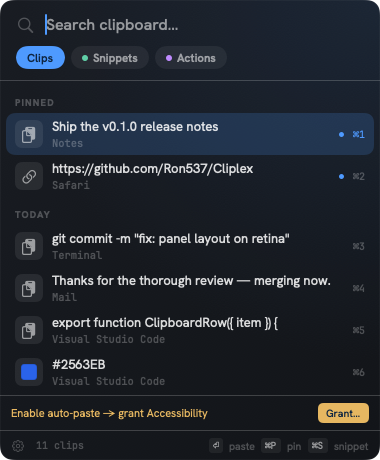
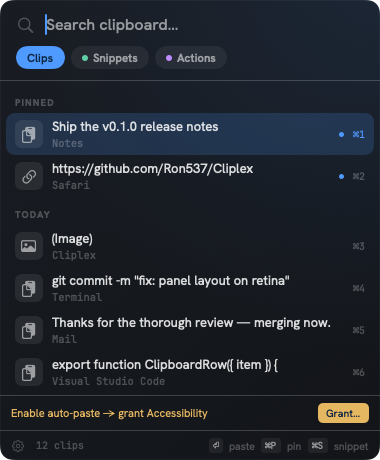
feat(brand): apply new mark across the app UI, README hero & screenshots
- Add BrandMark SwiftUI view (the duplicate/copy motif from the app icon)
- Use it in the Library and Settings title bars (replaces the old SF-symbol tile)
- README: add the app icon to the hero
- Regenerate marketing screenshots to show the new in-app mark
- gen-icons.sh also exports assets/branding/icon.png for the README

Changed region(s): [[0.0579, 0.487, 0.8684, 0.8217], [0.0579, 0.7913, 0.1158, 0.8522]]

diff --git a/Sources/Cliplex/BrandMark.swift b/Sources/Cliplex/BrandMark.swift
@@ -1,0 +1,42 @@
+import SwiftUI
+
+/// The Cliplex wordmark glyph — the "duplicate" motif from the app icon: two
+/// overlapping rounded cards (bright blue front, deeper blue back) with a soft
+/// cast shadow. Drawn in SwiftUI so it stays crisp at any size in-app.
+struct BrandMark: View {
+    var size: CGFloat = 24
+
+    private var card: CGFloat { size * 0.64 }
+    private var radius: CGFloat { card * 0.30 }
+    private var shift: CGFloat { size * 0.13 }
+
+    private var front: LinearGradient {
+        LinearGradient(colors: [Color(nsColor: NSColor(hex: 0x5DA8FF)),
+                                Color(nsColor: NSColor(hex: 0x2E79E6))],
+                       startPoint: .top, endPoint: .bottom)
+    }
+    private var back: LinearGradient {
+        LinearGradient(colors: [Color(nsColor: NSColor(hex: 0x3F82DE)),
+                                Color(nsColor: NSColor(hex: 0x265FB8))],
+                       startPoint: .top, endPoint: .bottom)
+    }
+
+    var body: some View {
+        ZStack {
+            RoundedRectangle(cornerRadius: radius, style: .continuous)
+                .fill(back)
+                .frame(width: card, height: card)
+                .offset(x: shift, y: -shift)
+            RoundedRectangle(cornerRadius: radius, style: .continuous)
+                .fill(front)
+                .frame(width: card, height: card)
+                .overlay(
+                    RoundedRectangle(cornerRadius: radius, style: .continuous)
+                        .strokeBorder(.white.opacity(0.22), lineWidth: max(1, size * 0.03))
+                )
+                .offset(x: -shift, y: shift)
+                .shadow(color: .black.opacity(0.28), radius: size * 0.07, y: size * 0.045)
+        }
+        .frame(width: size, height: size)
+    }
+}

diff --git a/Sources/Cliplex/LibraryView.swift b/Sources/Cliplex/LibraryView.swift
@@ -97,11 +97,7 @@ struct LibraryView: View {
 
     private var brand: some View {
         HStack(spacing: 9) {
-            RoundedRectangle(cornerRadius: 7)
-                .fill(LinearGradient(colors: [Theme.accent, Theme.accent.opacity(0.8)],
-                                     startPoint: .top, endPoint: .bottom))
-                .frame(width: 22, height: 22)
-                .overlay(Image(systemName: "doc.on.clipboard.fill").font(.system(size: 11)).foregroundStyle(Theme.accentInk))
+            BrandMark(size: 24)
             Text("Cliplex").font(.display(15, .bold))
             Text("Library").font(.ui(13, .medium)).foregroundStyle(Theme.mutedText)
         }

diff --git a/Sources/Cliplex/SettingsView.swift b/Sources/Cliplex/SettingsView.swift
@@ -49,11 +49,7 @@ struct SettingsView: View {
     /// The integrated titlebar brand row (sits just below the traffic lights).
     private var brandBar: some View {
         HStack(spacing: 9) {
-            RoundedRectangle(cornerRadius: 7)
-                .fill(LinearGradient(colors: [Theme.accent, Theme.accent.opacity(0.8)],
-                                     startPoint: .top, endPoint: .bottom))
-                .frame(width: 22, height: 22)
-                .overlay(Image(systemName: "doc.on.clipboard.fill").font(.system(size: 11)).foregroundStyle(Theme.accentInk))
+            BrandMark(size: 24)
             Text("Cliplex").font(.display(15, .bold))
             Text("Settings").font(.ui(13, .medium)).foregroundStyle(Theme.mutedText)
             Spacer()

diff --git a/README.md b/README.md
@@ -1,6 +1,6 @@
 <div align="center">
 
-<img src="assets/screenshots/panel.png" alt="Cliplex quick panel" width="320" />
+<img src="assets/branding/icon.png" alt="Cliplex" width="120" />
 
 # Cliplex
 
@@ -11,6 +11,8 @@
 [![Platform](https://img.shields.io/badge/macOS-14%2B-black?logo=apple)](#install)
 [![Made with Swift](https://img.shields.io/badge/Swift-AppKit%20%2B%20SwiftUI-F05138?logo=swift&logoColor=white)](#stack)
 [![No telemetry](https://img.shields.io/badge/telemetry-none-22c55e)](PRIVACY.md)
+
+<img src="assets/screenshots/panel.png" alt="Cliplex quick panel" width="300" />
 
 </div>
 